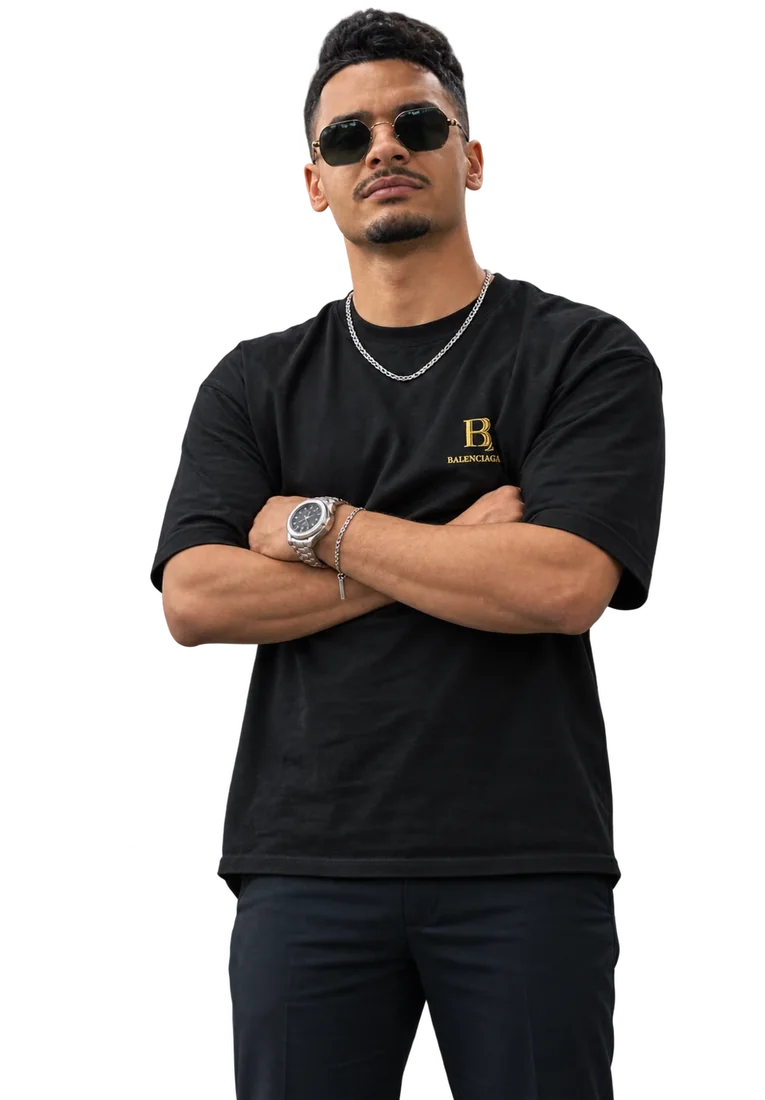
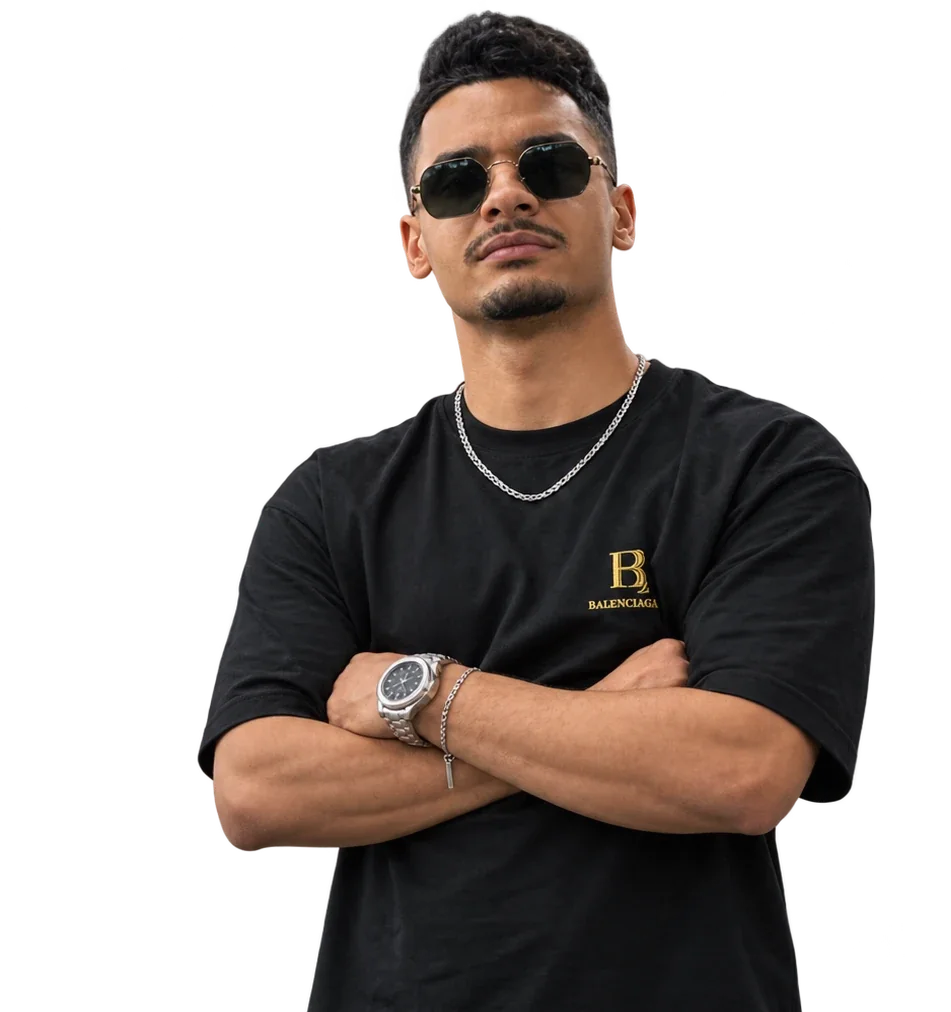
Barbers lineup animation (Nasro centre, then Reda & Ziko)
TV football line-up style reveal: ghost entrance, gold name plates, arm-cross
crossfade when an arms-relaxed intro photo is provided. Ziko photo reframed.

diff --git a/src/components/home/BarberLineup.tsx b/src/components/home/BarberLineup.tsx
@@ -1,0 +1,185 @@
+"use client";
+import { useEffect, useRef, useState } from "react";
+import Image from "next/image";
+import Link from "next/link";
+import clsx from "clsx";
+import { Phone } from "lucide-react";
+import type { Barber } from "@/lib/domain/types";
+import { whatsappLink } from "@/lib/domain/phone";
+import { WhatsAppIcon } from "@/components/brand/SocialIcons";
+import { useI18n } from "@/lib/i18n/client";
+
+/**
+ * "Starting lineup" reveal, like a football TV line-up:
+ *   1. the centre barber fades in as a ghost, becomes solid, name plate slides in, then crosses his arms;
+ *   2. the two others appear on his sides at the same time and do the same.
+ * The arm cross uses `introPhotoUrl` (arms relaxed) → `photoUrl` (arms crossed) when available;
+ * otherwise a short "settle into pose" motion is used.
+ */
+type Phase = 0 | 1 | 2 | 3; // 0 hidden · 1 ghost · 2 solid + plate · 3 arms crossed
+
+const TIMELINE = {
+  centre: { ghost: 200, solid: 750, cross: 1500 },
+  sides: { ghost: 2100, solid: 2650, cross: 3400 },
+};
+
+export function BarberLineup({ barbers, centreSlug, leftSlug, rightSlug }: { barbers: Barber[]; centreSlug: string; leftSlug: string; rightSlug: string }) {
+  const { t } = useI18n();
+  const stage = useRef<HTMLDivElement>(null);
+  const [centre, setCentre] = useState<Phase>(0);
+  const [sides, setSides] = useState<Phase>(0);
+
+  const by = (slug: string) => barbers.find((b) => b.slug === slug);
+  const left = by(leftSlug);
+  const mid = by(centreSlug);
+  const right = by(rightSlug);
+
+  useEffect(() => {
+    const el = stage.current;
+    if (!el) return;
+    if (window.matchMedia("(prefers-reduced-motion: reduce)").matches) {
+      setCentre(3);
+      setSides(3);
+      return;
+    }
+    const timers: ReturnType<typeof setTimeout>[] = [];
+    const play = () => {
+      const at = (ms: number, fn: () => void) => timers.push(setTimeout(fn, ms));
+      at(TIMELINE.centre.ghost, () => setCentre(1));
+      at(TIMELINE.centre.solid, () => setCentre(2));
+      at(TIMELINE.centre.cross, () => setCentre(3));
+      at(TIMELINE.sides.ghost, () => setSides(1));
+      at(TIMELINE.sides.solid, () => setSides(2));
+      at(TIMELINE.sides.cross, () => setSides(3));
+    };
+    const io = new IntersectionObserver(
+      ([e]) => {
+        if (e?.isIntersecting) {
+          play();
+          io.disconnect();
+        }
+      },
+      { threshold: 0.35 },
+    );
+    io.observe(el);
+    return () => {
+      io.disconnect();
+      timers.forEach(clearTimeout);
+    };
+  }, []);
+
+  if (!left || !mid || !right) return null;
+
+  return (
+    <div ref={stage} className="relative">
+      {/* Stage: gold "pitch" lines + spotlight */}
+      <div className="pointer-events-none absolute inset-x-0 bottom-[18%] h-px bg-gradient-to-r from-transparent via-gold/50 to-transparent" />
+      <div className="pointer-events-none absolute left-1/2 top-[8%] h-[70%] w-[min(520px,70%)] -translate-x-1/2 rounded-full bg-[radial-gradient(ellipse_at_center,rgba(201,154,53,0.18),transparent_65%)]" />
+
+      <div className="relative mx-auto flex h-[340px] max-w-5xl items-end justify-center sm:h-[460px] lg:h-[560px]">
+        <Player barber={left} phase={sides} side="left" />
+        <Player barber={mid} phase={centre} side="centre" />
+        <Player barber={right} phase={sides} side="right" />
+      </div>
+
+      {/* Actions appear once the lineup is complete */}
+      <div className={clsx("mx-auto mt-8 grid max-w-4xl grid-cols-3 gap-2 transition-all duration-700 sm:gap-4", sides === 3 ? "translate-y-0 opacity-100" : "translate-y-3 opacity-0")}>
+        {[left, mid, right].map((b) => (
+          <div key={b.id} className="flex flex-col items-center gap-2 text-center">
+            <Link href={`/reservation?barber=${b.id}`} className="btn-gold btn-sm w-full max-w-[220px] px-2 text-[11px] sm:text-xs">
+              <span className="sm:hidden">{t.nav.booking}</span>
+              <span className="hidden sm:inline">{t.common.bookNow}</span>
+            </Link>
+            <div className="flex gap-1.5">
+              <Link href={`/barbiers/${b.slug}`} className="btn-ghost btn-sm hidden px-2 text-[11px] sm:inline-flex">
+                {t.barbers.profile}
+              </Link>
+              {b.phone && (
+                <>
+                  <a href={`tel:${b.phone}`} className="btn-ghost btn-sm px-2" aria-label={`Appeler ${b.name}`}>
+                    <Phone className="h-3.5 w-3.5" />
+                  </a>
+                  <a href={whatsappLink(b.phone)} target="_blank" rel="noopener noreferrer" className="btn-ghost btn-sm px-2" aria-label={`WhatsApp ${b.name}`}>
+                    <WhatsAppIcon className="h-3.5 w-3.5" />
+                  </a>
+                </>
+              )}
+            </div>
+          </div>
+        ))}
+      </div>
+    </div>
+  );
+}
+
+function Player({ barber, phase, side }: { barber: Barber; phase: Phase; side: "left" | "centre" | "right" }) {
+  const centre = side === "centre";
+  // Ghost entrance comes from the outside edge, like the TV line-up.
+  const from = side === "left" ? "-translate-x-6" : side === "right" ? "translate-x-6" : "-translate-x-4";
+  const crossed = phase >= 3;
+  const hasIntro = !!barber.introPhotoUrl;
+
+  return (
+    <Link
+      href={`/barbiers/${barber.slug}`}
+      aria-label={barber.name}
+      className={clsx(
+        "group relative flex h-full flex-col items-center justify-end",
+        centre ? "z-20 w-[40%] sm:w-[36%]" : "z-10 w-[34%] sm:w-[31%]",
+        side === "left" && "-me-[6%]",
+        side === "right" && "-ms-[6%]",
+      )}
+    >
+      <div
+        className={clsx(
+          "relative w-full transition-all ease-out",
+          centre ? "h-[92%]" : "h-[80%]",
+          phase === 0 && `opacity-0 ${from} blur-sm duration-0`,
+          phase === 1 && "translate-x-0 opacity-40 blur-[2px] brightness-150 duration-500",
+          phase >= 2 && "translate-x-0 opacity-100 blur-0 brightness-100 duration-500",
+          // Without an "arms relaxed" photo, the arm cross becomes a short settle into pose.
+          phase === 2 && !hasIntro && "scale-[1.04]",
+          crossed && "scale-100 duration-700",
+        )}
+      >
+        {/* Ghost trail during the entrance */}
+        {phase === 1 && (
+          <Image src={barber.photoUrl!} alt="" aria-hidden width={800} height={1100} sizes="35vw" className={clsx("absolute bottom-0 left-1/2 h-full w-auto max-w-none -translate-x-1/2 opacity-30", side === "right" ? "ms-4" : "-ms-4")} />
+        )}
+        {hasIntro && (
+          <Image
+            src={barber.introPhotoUrl!}
+            alt=""
+            aria-hidden
+            width={800}
+            height={1100}
+            sizes="(min-width: 1024px) 35vw, 40vw"
+            className={clsx("absolute bottom-0 left-1/2 h-full w-auto max-w-none -translate-x-1/2 transition-opacity duration-300", crossed ? "opacity-0" : "opacity-100")}
+          />
+        )}
+        <Image
+          src={barber.photoUrl!}
+          alt={barber.name}
+          width={800}
+          height={1100}
+          sizes="(min-width: 1024px) 35vw, 40vw"
+          className={clsx(
+            "absolute bottom-0 left-1/2 h-full w-auto max-w-none -translate-x-1/2 drop-shadow-[0_20px_30px_rgba(0,0,0,0.6)] transition duration-300 group-hover:brightness-110",
+            hasIntro && !crossed ? "opacity-0" : "opacity-100",
+          )}
+        />
+      </div>
+
+      {/* Gold name plate */}
+      <span
+        className={clsx(
+          "absolute bottom-[4%] z-30 rounded-sm border border-gold-light/60 bg-gradient-to-b from-gold-light via-gold to-gold-dark px-4 py-1.5 font-display font-semibold uppercase tracking-[0.2em] text-ink shadow-[0_8px_24px_-6px_rgba(201,154,53,0.6)] transition-all duration-500 sm:px-7 sm:py-2",
+          centre ? "text-sm sm:text-xl" : "text-xs sm:text-lg",
+          phase >= 2 ? "translate-y-0 opacity-100" : "translate-y-4 opacity-0",
+        )}
+      >
+        {barber.name}
+      </span>
+    </Link>
+  );
+}

diff --git a/src/app/(site)/page.tsx b/src/app/(site)/page.tsx
@@ -7,9 +7,10 @@ import { todayInTz } from "@/lib/domain/time";
 import { getPublicQueue } from "@/lib/server/publicQueue";
 import { SectionHeading } from "@/components/ui";
 import { Ornament } from "@/components/brand/Logo";
-import { ServiceCard, BarberCard, ReviewCard } from "@/components/site/cards";
+import { ServiceCard, ReviewCard } from "@/components/site/cards";
 import { GalleryGrid } from "@/components/site/GalleryGrid";
 import { QuickBooking } from "@/components/home/QuickBooking";
+import { BarberLineup } from "@/components/home/BarberLineup";
 import { LiveWaitPreview } from "@/components/queue/PublicQueue";
 import { HoursList, MapEmbed, ContactActions, ContactList } from "@/components/site/ShopInfo";
 import { TikTokIcon, WhatsAppIcon } from "@/components/brand/SocialIcons";
@@ -172,11 +173,7 @@ export default async function HomePage() {
       <section className="section">
         <div className="container-x">
           <SectionHeading eyebrow={t.home.barbersEyebrow} title={t.home.barbersTitle} text={t.home.barbersText} />
-          <div className="grid gap-6 md:grid-cols-3">
-            {barbers.map((b) => (
-              <BarberCard key={b.id} barber={b} t={t} />
-            ))}
-          </div>
+          <BarberLineup barbers={barbers} centreSlug="nasro" leftSlug="reda" rightSlug="ziko" />
         </div>
       </section>
 

diff --git a/src/lib/repo/supabase.ts b/src/lib/repo/supabase.ts
@@ -65,7 +65,7 @@ const toShop = (r: Row): Shop => ({
 const toBarber = (r: Row): Barber => ({
   id: r.id, slug: r.slug, name: r.name, title: r.title, bio: r.bio, specialties: r.specialties ?? [],
   experienceYears: r.experience_years, rating: Number(r.rating), reviewCount: r.review_count,
-  photoUrl: r.photo_url, phone: r.phone ?? null, socials: r.socials ?? {}, active: r.active, delayMinutes: r.delay_minutes,
+  photoUrl: r.photo_url, introPhotoUrl: r.intro_photo_url ?? null, phone: r.phone ?? null, socials: r.socials ?? {}, active: r.active, delayMinutes: r.delay_minutes,
   sortOrder: r.sort_order,
   serviceIds: (r.barber_services ?? []).map((x: Row) => x.service_id),
   durationOverrides: Object.fromEntries(

diff --git a/src/lib/domain/types.ts b/src/lib/domain/types.ts
@@ -107,6 +107,8 @@ export interface Barber {
   rating: number;
   reviewCount: number;
   photoUrl: string | null;
+  /** Optional "arms relaxed" photo: shown first in the lineup animation, then crossfades to photoUrl (arms crossed). */
+  introPhotoUrl: string | null;
   /** Personal phone (E.164) — call / WhatsApp buttons on the profile. */
   phone: string | null;
   socials: { instagram?: string; tiktok?: string };

diff --git a/src/lib/repo/seed.ts b/src/lib/repo/seed.ts
@@ -83,6 +83,7 @@ const barber = (n: number, slug: string, name: string, phone: string, specialtie
   rating: 0,
   reviewCount: 0,
   photoUrl: `/images/barbers/${slug}.webp`,
+  introPhotoUrl: null, // add /images/barbers/<slug>-intro.webp (arms relaxed) to animate the arm cross
   phone,
   socials: {},
   serviceIds: allServices,
